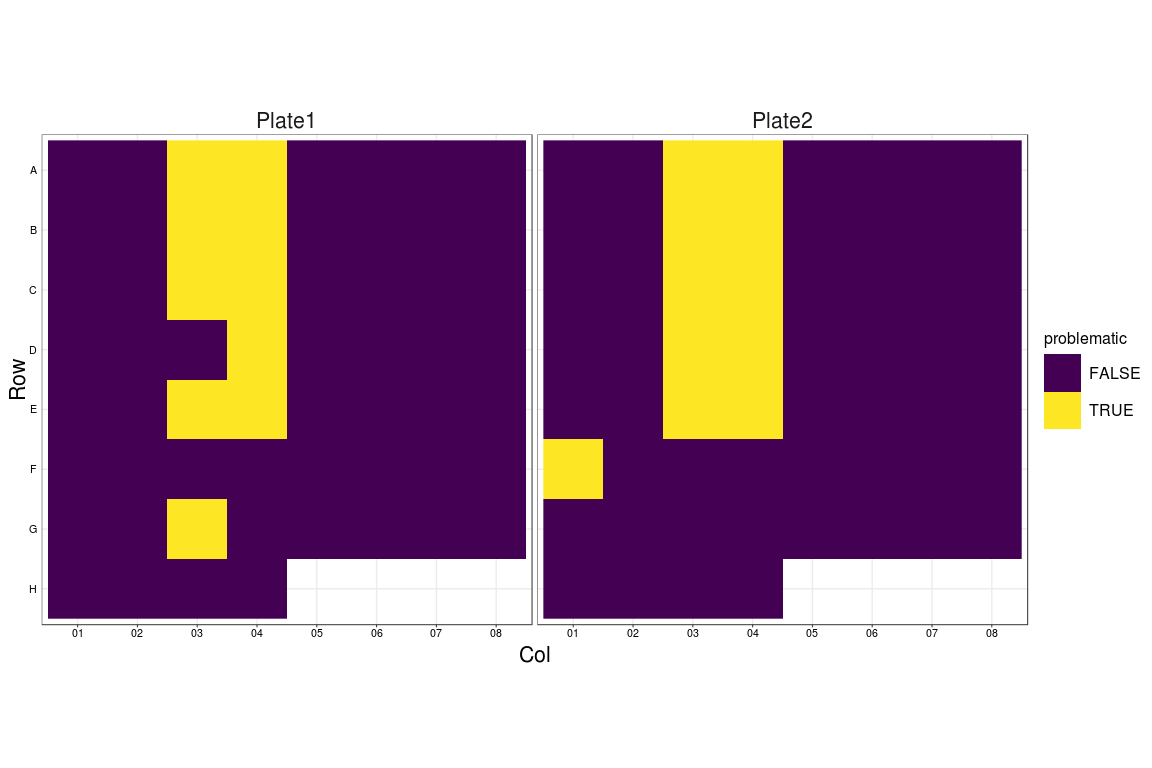
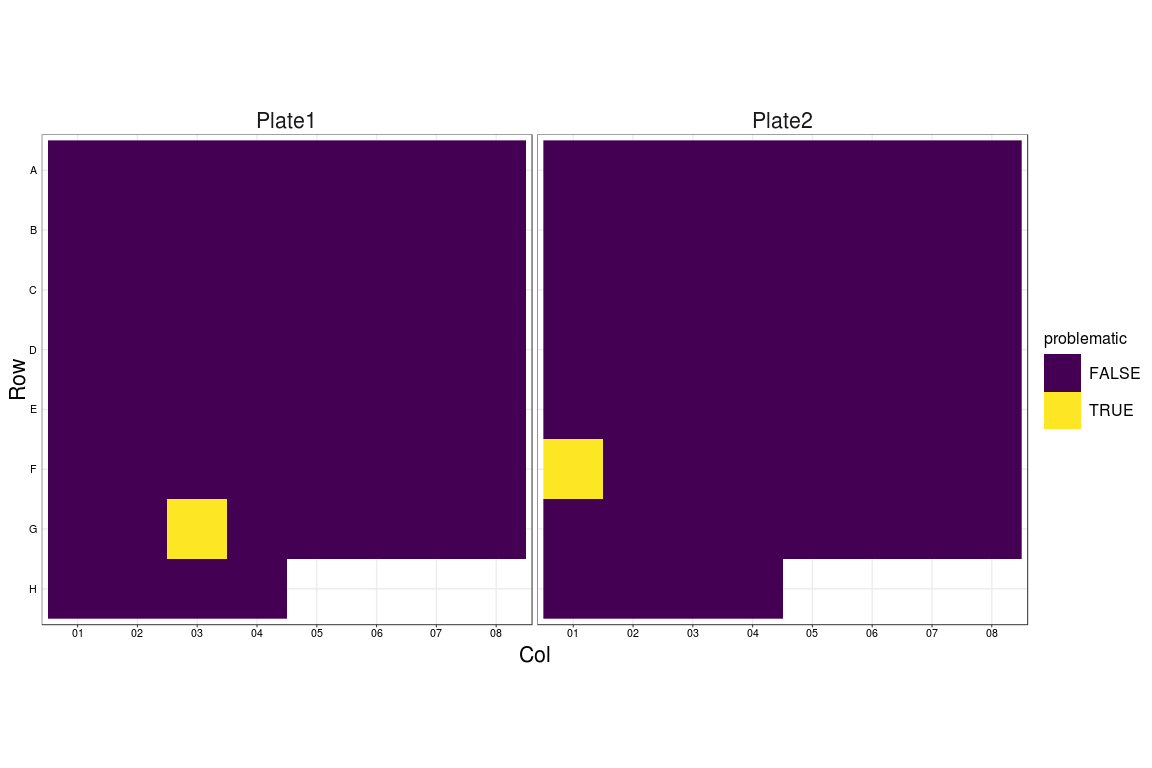
fixed RNA copy input

Changed region(s): [[0.5625, 0.1562, 0.6875, 0.5938], [0.125, 0.1562, 0.25, 0.5938]]

diff --git a/analyses/first_run/first_run.md b/analyses/first_run/first_run.md
@@ -334,8 +334,8 @@ df.wide
     ##    <chr>     <chr>    <fct> <chr> <chr>  <chr>                 <dbl> <dbl>
     ##  1 Plate1-A… Plate1   A     01    N1_S2… N1 Expected             0       0
     ##  2 Plate1-A… Plate1   A     02    N1_S2… N1 Expected             0       5
-    ##  3 Plate1-A… Plate1   A     03    N1_S2… N1 Expected            11.0     0
-    ##  4 Plate1-A… Plate1   A     04    N1_S2… N1 Expected            11.0     8
+    ##  3 Plate1-A… Plate1   A     03    N1_S2… N1 Expected             0       0
+    ##  4 Plate1-A… Plate1   A     04    N1_S2… N1 Expected             0       8
     ##  5 Plate1-A… Plate1   A     05    N1_S2… N1 Expected            32.9  1727
     ##  6 Plate1-A… Plate1   A     06    N1_S2… N1 Expected            32.9  2946
     ##  7 Plate1-A… Plate1   A     07    N1_S2… N1 Expected            32.9  1865
@@ -371,16 +371,16 @@ df.wide.nulls
     ## # A tibble: 180 x 10
     ##    expected_amplic… Sample_ID Plate_ID Row   Col   bc_set RNA_copies   RNA
     ##    <chr>            <chr>     <chr>    <fct> <chr> <chr>       <dbl> <dbl>
-    ##  1 N1 Expected      Plate1-A… Plate1   A     03    N1_S2…       11.0     0
-    ##  2 N1 Expected      Plate1-A… Plate1   A     04    N1_S2…       11.0     8
-    ##  3 N1 Expected      Plate1-A… Plate1   A     05    N1_S2…       32.9  1727
-    ##  4 N1 Expected      Plate1-A… Plate1   A     06    N1_S2…       32.9  2946
-    ##  5 N1 Expected      Plate1-A… Plate1   A     07    N1_S2…       32.9  1865
-    ##  6 N1 Expected      Plate1-A… Plate1   A     08    N1_S2…       32.9  2081
-    ##  7 N1 Expected      Plate1-B… Plate1   B     03    N1_S2…       32.9    11
-    ##  8 N1 Expected      Plate1-B… Plate1   B     04    N1_S2…       32.9     0
-    ##  9 N1 Expected      Plate1-B… Plate1   B     05    N1_S2…       98.8  5557
-    ## 10 N1 Expected      Plate1-B… Plate1   B     06    N1_S2…       98.8  7588
+    ##  1 N1 Expected      Plate1-A… Plate1   A     05    N1_S2…       32.9  1727
+    ##  2 N1 Expected      Plate1-A… Plate1   A     06    N1_S2…       32.9  2946
+    ##  3 N1 Expected      Plate1-A… Plate1   A     07    N1_S2…       32.9  1865
+    ##  4 N1 Expected      Plate1-A… Plate1   A     08    N1_S2…       32.9  2081
+    ##  5 N1 Expected      Plate1-B… Plate1   B     05    N1_S2…       98.8  5557
+    ##  6 N1 Expected      Plate1-B… Plate1   B     06    N1_S2…       98.8  7588
+    ##  7 N1 Expected      Plate1-B… Plate1   B     07    N1_S2…       98.8  8325
+    ##  8 N1 Expected      Plate1-B… Plate1   B     08    N1_S2…       98.8  6194
+    ##  9 N1 Expected      Plate1-C… Plate1   C     05    N1_S2…      296.  23651
+    ## 10 N1 Expected      Plate1-C… Plate1   C     06    N1_S2…      296.  26484
     ## # … with 170 more rows, and 2 more variables: RPP30 <dbl>, Spike <dbl>
 
 ## Detection Plots
